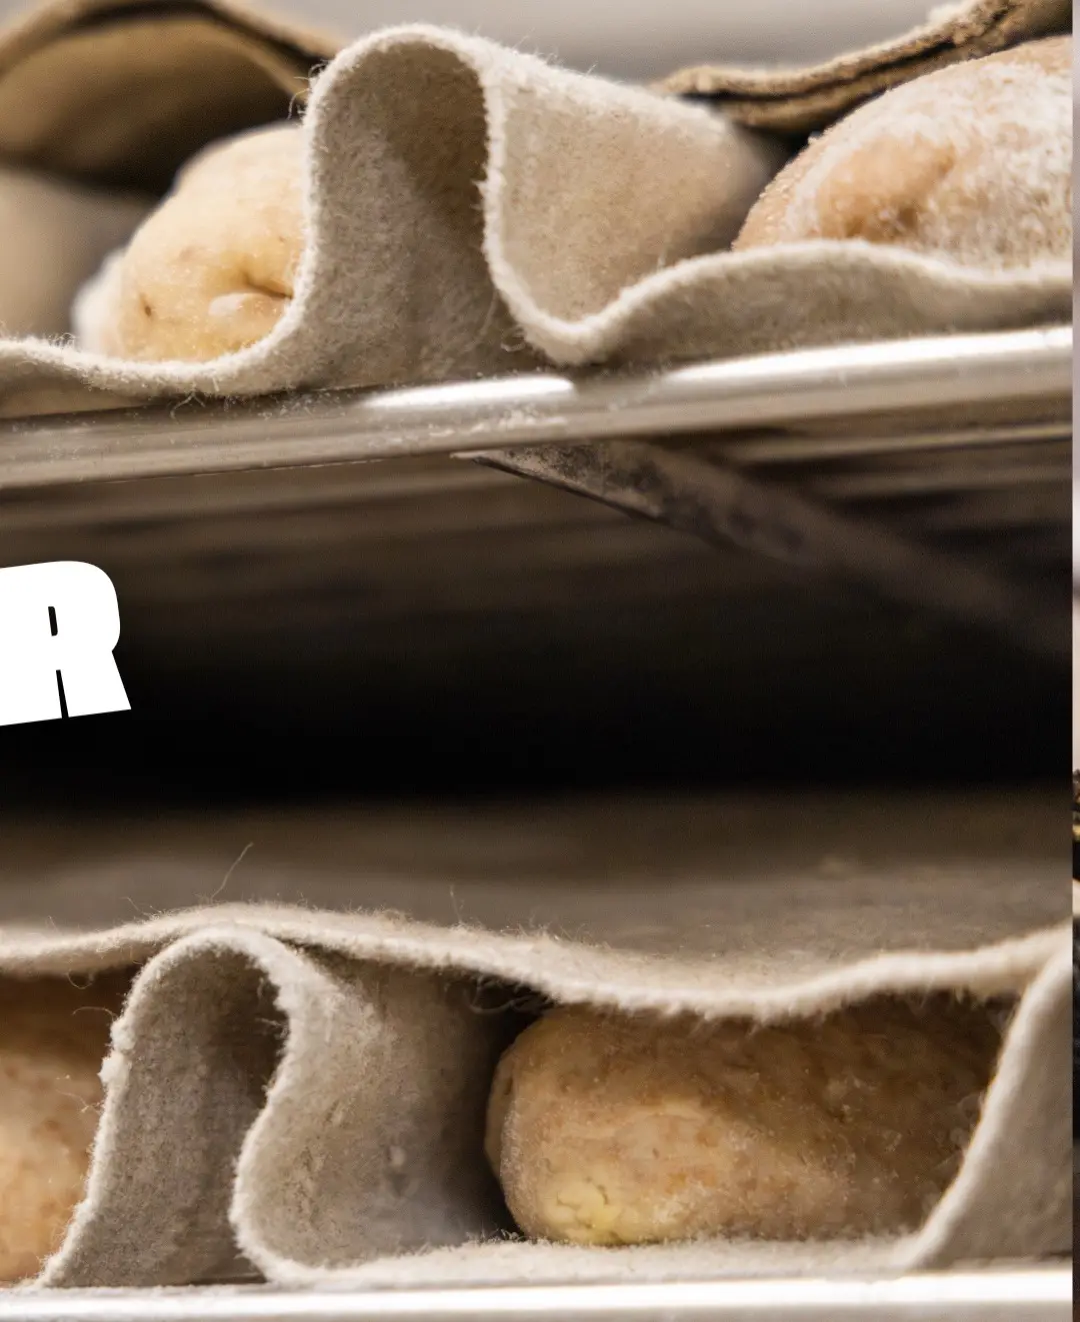
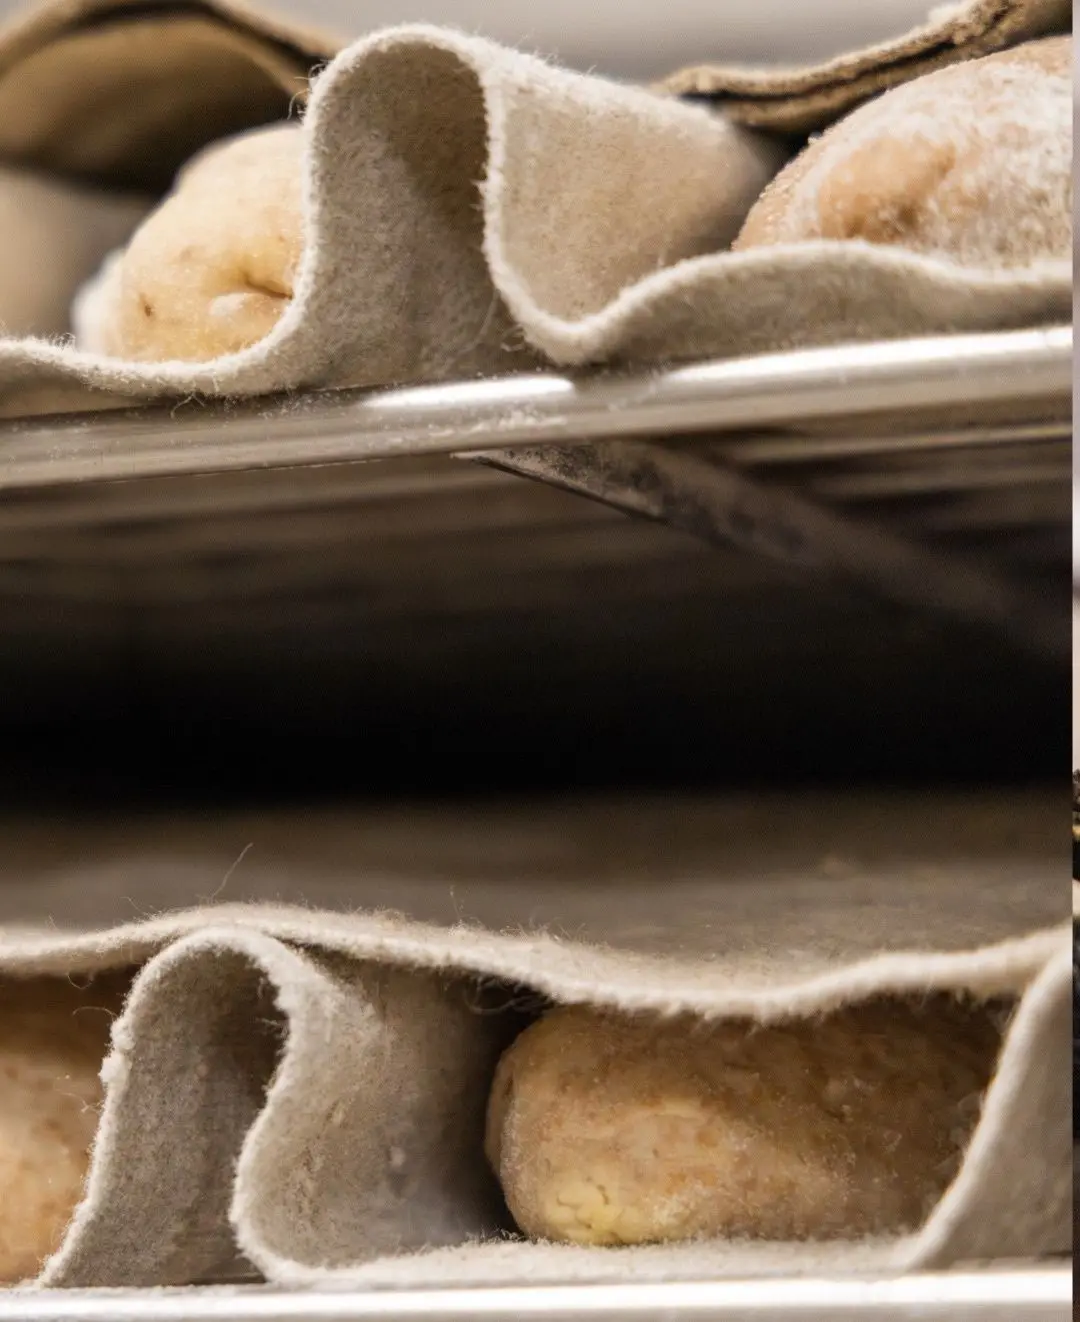
Créations : tri de la galerie sans bug, photo des pâtons sans texte
- le tri des photos se fait en fondu : plus de photos qui se chevauchent ni de page qui saute
- la frise et le redimensionnement ne se faussent plus si un élément dépasse de l'écran
- reste de texte Instagram (« R ») effacé de la photo des pâtons dans les couches de lin

Changed region(s): [[0.0, 0.4032, 0.1222, 0.5582]]

diff --git a/assets/js/main.js b/assets/js/main.js
@@ -6,18 +6,18 @@
   const $ = (s, r = document) => r.querySelector(s);
   const $$ = (s, r = document) => [...r.querySelectorAll(s)];
 
-  gsap.registerPlugin(ScrollTrigger, SplitText, Flip);
+  gsap.registerPlugin(ScrollTrigger, SplitText);
   window.LPDS_READY = true;
 
   // ---------- Hauteur d'écran ----------
   // mesurée une seule fois (script du <head>, variable --vh) : la barre d'adresse du téléphone qui apparaît ou
   // disparaît ne fait plus bouger la page. On ne recalcule que si la largeur change (rotation de l'écran).
   let VH = parseFloat(document.documentElement.style.getPropertyValue('--vh')) * 100 || innerHeight;
-  let VW = innerWidth;
+  let VW = document.documentElement.clientWidth; // largeur de l'écran, même si un élément dépasse
   ScrollTrigger.config({ ignoreMobileResize: true, autoRefreshEvents: 'visibilitychange,DOMContentLoaded,load' });
   addEventListener('resize', () => {
-    if (innerWidth === VW) return; // seule la hauteur a changé : on ne touche à rien
-    VW = innerWidth;
+    if (document.documentElement.clientWidth === VW) return; // seule la hauteur a changé : on ne touche à rien
+    VW = document.documentElement.clientWidth;
     VH = innerHeight;
     document.documentElement.style.setProperty('--vh', VH / 100 + 'px');
     ScrollTrigger.refresh();
@@ -193,7 +193,7 @@
   const mm = gsap.matchMedia();
   mm.add('(prefers-reduced-motion: no-preference)', () => {
     const track = $('.timeline__track');
-    const dist = () => track.scrollWidth - innerWidth;
+    const dist = () => track.scrollWidth - document.documentElement.clientWidth;
     const cardsTl = $$('.milestone');
     // quand on s'arrête de défiler, la frise se cale sur la carte la plus proche
     const snapTo = (v) => {
@@ -329,16 +329,27 @@
   const more = $('.gallery__more');
   let expanded = false, filter = 'all';
   function relayout(change) {
-    const state = Flip.getState(cards);
-    change();
-    gallery.classList.toggle('is-collapsed', filter === 'all' && !expanded);
-    more.hidden = !(filter === 'all' && !expanded);
-    if (reduce) return ScrollTrigger.refresh();
-    Flip.from(state, {
-      duration: 0.9, ease: 'expo.inOut', absolute: true, scale: true,
-      onEnter: (els) => gsap.fromTo(els, { opacity: 0, scale: 0.85 }, { opacity: 1, scale: 1, y: 0, duration: 0.7, ease: 'expo.out' }),
-      onLeave: (els) => gsap.to(els, { opacity: 0, scale: 0.85, duration: 0.4 }),
-      onComplete: () => ScrollTrigger.refresh(),
+    // une carte masquée garde le décalage de son animation de sortie : on l'efface, sinon elle revient au mauvais endroit
+    const apply = () => {
+      change();
+      gallery.classList.toggle('is-collapsed', filter === 'all' && !expanded);
+      more.hidden = !(filter === 'all' && !expanded);
+    };
+    if (reduce) { apply(); return ScrollTrigger.refresh(); }
+    // fondu : les photos s'effacent, la galerie se réorganise, puis elles réapparaissent pendant qu'elle prend
+    // sa nouvelle hauteur en douceur. Aucune photo ne sort de la grille : rien ne se chevauche, la page ne saute pas.
+    const before = gallery.offsetHeight;
+    gsap.to(cards, {
+      opacity: 0, duration: 0.2, ease: 'power1.in', overwrite: true,
+      onComplete: () => {
+        apply();
+        gsap.set(gallery, { overflow: 'hidden' });
+        gsap.fromTo(gallery, { height: before }, {
+          height: gallery.offsetHeight, duration: 0.7, ease: 'expo.inOut', overwrite: true,
+          onComplete: () => { gsap.set(gallery, { clearProps: 'height,overflow' }); ScrollTrigger.refresh(); },
+        });
+        gsap.fromTo(cards.filter((c) => c.offsetParent), { opacity: 0, y: 28 }, { opacity: 1, y: 0, duration: 0.7, ease: 'expo.out', stagger: 0.05 });
+      },
     });
   }
   chips.forEach((chip) => chip.addEventListener('click', () => relayout(() => {

diff --git a/index.html b/index.html
@@ -605,7 +605,6 @@
 <script src="assets/vendor/gsap.min.js" defer></script>
 <script src="assets/vendor/ScrollTrigger.min.js" defer></script>
 <script src="assets/vendor/SplitText.min.js" defer></script>
-<script src="assets/vendor/Flip.min.js" defer></script>
 <script src="assets/vendor/lenis.min.js" defer></script>
 <script src="assets/js/i18n.js" defer></script>
 <script src="assets/js/main.js" defer></script>
